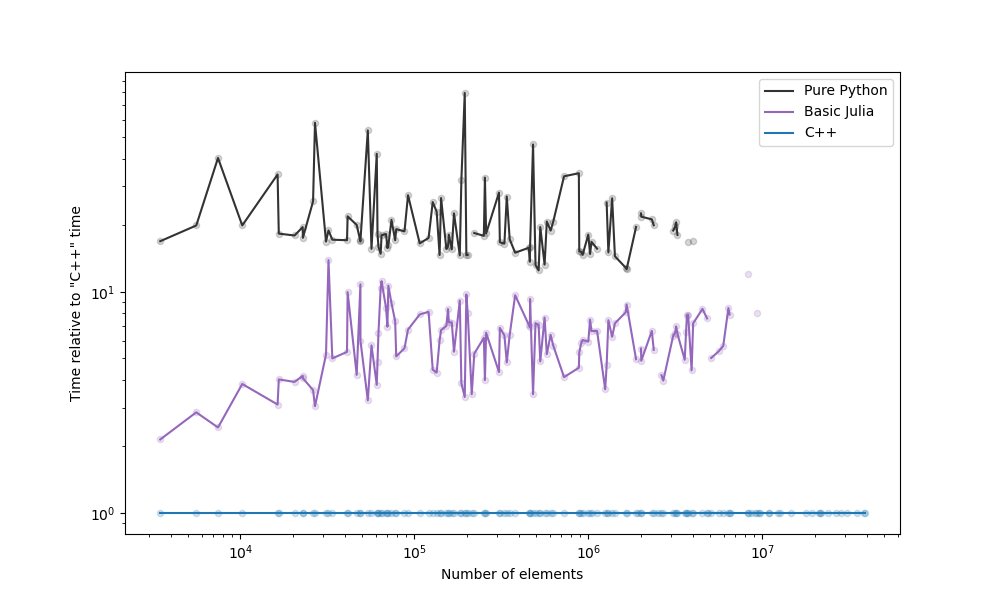
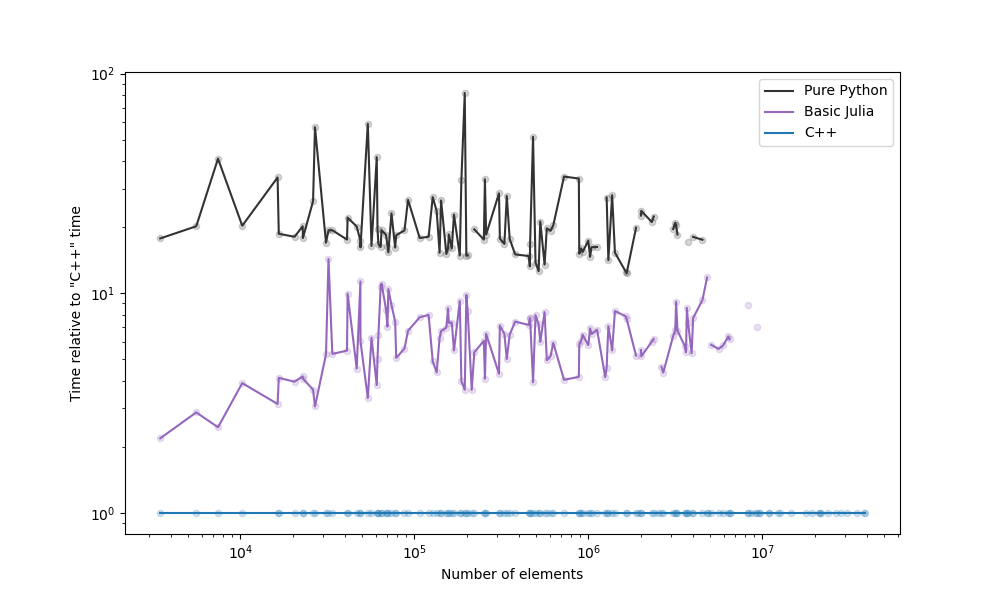
Split Python load_pandas

diff --git a/src/experiments.py b/src/experiments.py
@@ -13,6 +13,8 @@ def experiments(
 
     times = {
         'python': [],
+        'pandas_read_csv': [],
+        'pandas_tuples_to_df': [],
         'julia_c': [],
         'julia_basic': [],
         'julia_prealloc': [],
@@ -38,12 +40,20 @@ def experiments(
         filename = filename.path
         # Complete Python
         if 'python' in skip:
-            times['python'].append(math.nan)
+            times['pandas_read_csv'].append(math.nan)
+            times['pandas_tuples_to_df'].append(math.nan)
         else:
             start = time.time()
             for _ in range(0, tries):
-                df = load_pandas(filename)
-            times['python'].append((time.time() - start) / tries)
+                df_tuples = pandas_read_csv(filename)
+            times['pandas_read_csv'].append((time.time() - start) / tries)
+
+            start = time.time()
+            for _ in range(0, tries):
+                df = pandas_tuple_to_dataframe(df_tuples)
+            times['pandas_tuples_to_df'].append((time.time() - start) / tries)
+
+        times['python'] = times.pandas_read_csv + times.pandas_tuples_to_df
 
         # Separate read
         for (key, read_fun) in [
@@ -65,13 +75,15 @@ def experiments(
         start = time.time()
         for _ in range(0, tries):
             df = load_external(arrays)
-        elements.append(df.shape[0])
-        rows.append(sum(1 for _ in open(filename)))
         times['load_external'].append((time.time() - start) / tries)
 
+        elements.append(df.shape[0])
+        rows.append(sum(1 for _ in open(filename)))
+
         # Slow part
-        if tries > 1 and times['load_external'][-1] > 0.01:
+        if tries > 1 and times['load_external'][-1] > 0.1:
             tries = 1
+
         for k in times.keys() - ['load_external']:
             if times[k][-1] > skip_after:
                 if k in offenders:
@@ -82,7 +94,7 @@ def experiments(
         # Progress
         perc = round(100 * (i + 1) / N, 1)
         print(f'progress = {perc}%, file {filename}')
-        print('  ' + ' '.join([f'{k}:{v[-1]}' for k, v in times.items()]))
+        print('  ' + ' '.join([f'{k}:{round(v[-1], 4)}' for k, v in times.items()]))
 
     df = pd.DataFrame({
         'elements': elements,

diff --git a/src/split_pandas_analysis.py b/src/split_pandas_analysis.py
@@ -1,0 +1,35 @@
+from analysis import *
+
+df, df_read, df_complete, df_rel_cpp, df_rel_opt = read_experiments_data('out/experiments.csv')
+
+parts = {
+    'pandas_read_csv': {
+        'color': 'magenta',
+        'label': 'Pandas - Read CSV',
+    },
+    'pandas_tuples_to_df': {
+        'color': 'cyan',
+        'label': 'Pandas - Convert to DataFrame'
+    }
+}
+
+def common_info():
+    plt.xlabel('Number of elements')
+    plt.ylabel('Time (s)')
+    plt.legend()
+    plt.xscale('log')
+    plt.yscale('log')
+
+# Stacked parts
+plt.figure(figsize=(10,6))
+plt.stackplot(
+    df['elements'],
+    df['pandas_read_csv'],
+    df['pandas_tuples_to_df'],
+    labels=[parts['pandas_read_csv']['label'], parts['pandas_tuples_to_df']['label']],
+    colors=[parts['pandas_read_csv']['color'], parts['pandas_tuples_to_df']['color']],
+)
+common_info()
+plt.savefig('out/plots/pandas-stacked-log.png')
+plt.yscale('linear')
+plt.savefig('out/plots/pandas-stacked.png')

diff --git a/src/run_analysis.py b/src/run_analysis.py
@@ -22,6 +22,9 @@ sns.scatterplot(df.elements, df.rows)
 plt.xscale('log')
 plt.savefig("out/plots/rows-vs-elements.png")
 
+# Python only
+plots_langs_per_element(df_complete, subset=['python'], suffix='python-only')
+
 # These plots compare the language time over the number of elements.
 plots_langs_per_element(
     df_complete,
@@ -49,10 +52,11 @@ subset_plot(['python', 'julia_basic', 'cpp'], 1)
 subset_plot(['python', 'julia_basic', 'julia_prealloc', 'cpp'], 2)
 subset_plot(['python', 'julia_basic', 'julia_prealloc', 'julia_c', 'cpp'], 3)
 subset_plot(['python', 'julia_basic', 'julia_prealloc', 'julia_c', 'cpp', 'julia_opt'], 4)
+fullset = ['python', 'julia_basic', 'julia_prealloc', 'julia_c', 'cpp', 'julia_opt']
 
 plots_langs_per_element(
     df_rel_opt,
-    subset=subset,
+    subset=fullset,
     suffix='subset-relative-opt',
     ylabel='Time relative to "Optimized Julia" time',
 )

diff --git a/src/load_functions.py b/src/load_functions.py
@@ -12,14 +12,20 @@ jl.eval('include("src/julia/jl_reader_basic.jl")')
 jl.eval('include("src/julia/jl_reader_prealloc.jl")')
 jl.eval('include("src/julia/jl_reader_opt.jl")')
 
-def load_pandas(filename):
+def pandas_read_csv(filename):
     df_tuples = pd.read_csv(filename,
                         sep='#', index_col=0, names=['key', 'elements'],
                         converters={'elements': lambda w: tuple(w.split(','))})
+    return df_tuples
+
+def pandas_tuple_to_dataframe(df_tuples):
     df = df_tuples['elements'].apply(pd.Series, 1).stack().astype('uint64').to_frame()
     df.index.rename(["key", "index"], inplace=True)
     df.rename({0: 'element'}, axis='columns', inplace=True)
     return df
+
+def load_pandas(filename):
+    return pandas_tuple_to_dataframe(pandas_read_csv(filename))
 
 def load_external(arrays):
     df = pd.DataFrame.from_records({

diff --git a/src/main.py b/src/main.py
@@ -1,3 +1,4 @@
 import run_experiments
 import run_analysis
 import gain_over_effort
+import split_pandas_analysis
